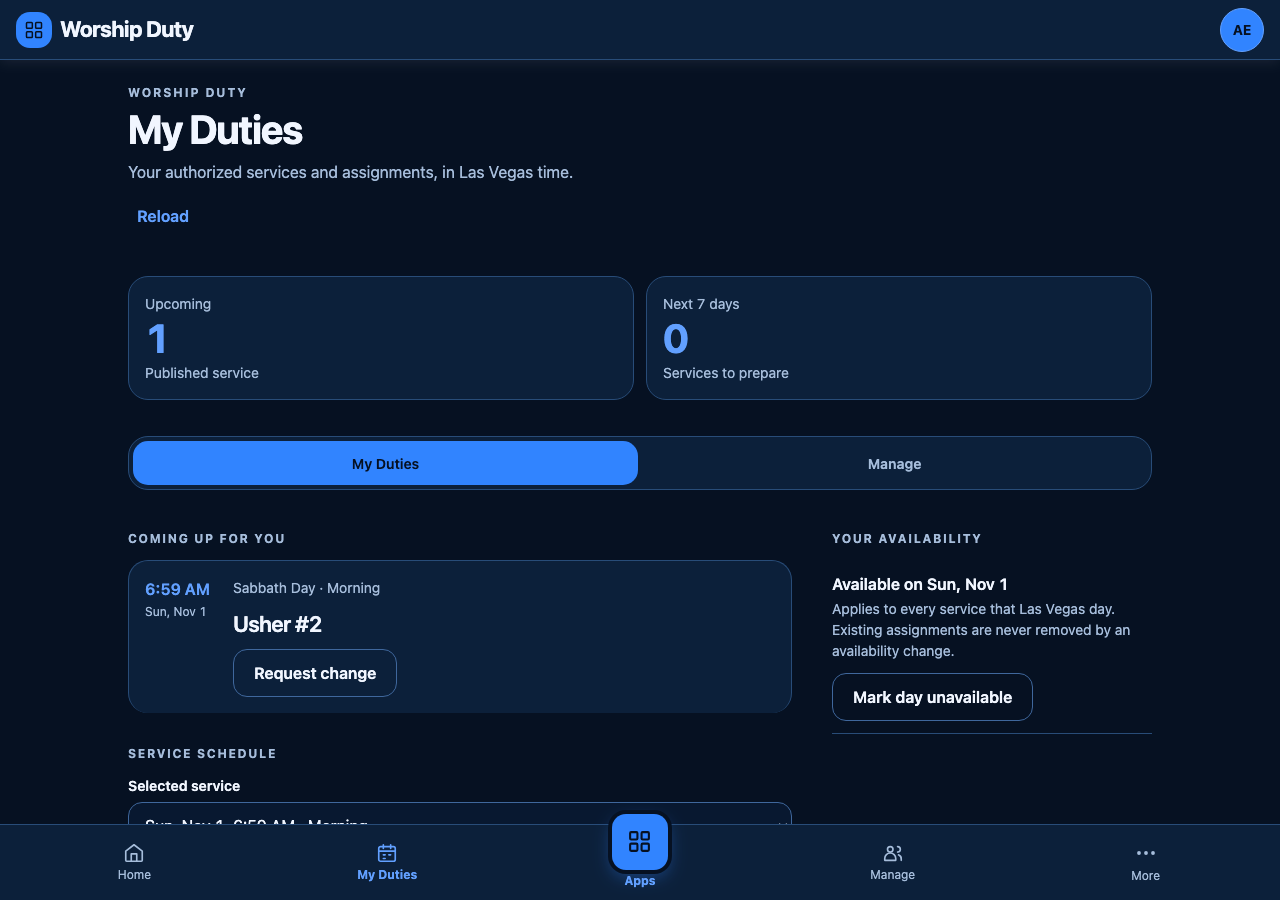
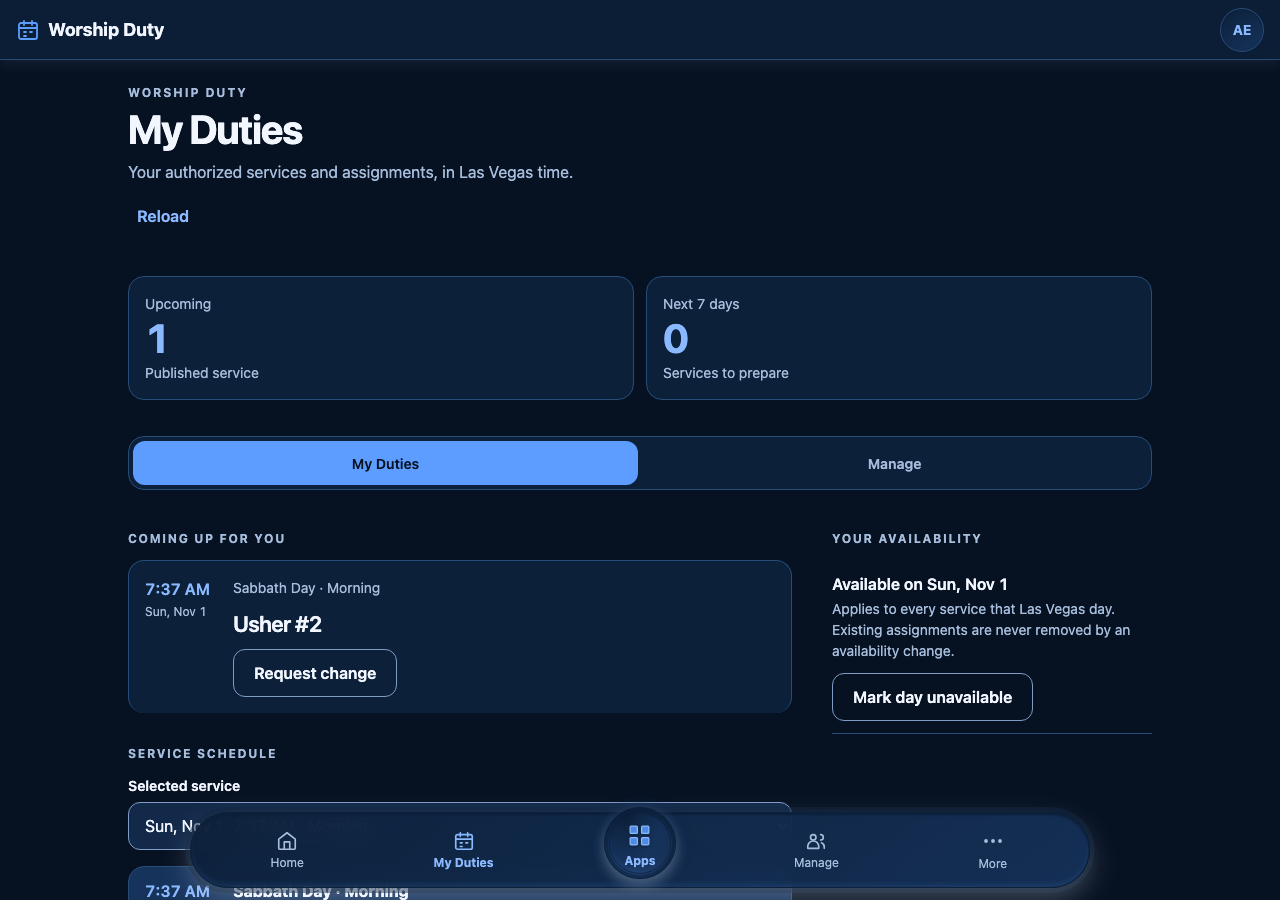
Move Worship Duty onto the shared module style registry
Worship now wears Midnight Sapphire from lib/module-styles.ts and
styles/lvz-tokens.css. The duplicate route-scoped palette and the
Worship frame-chrome overrides are removed, so the stylesheet reads
tokens only. The browser script checks the registry style and Dark
mode; screenshots and docs are refreshed.

diff --git a/components/worship-duty/worship-duty.css b/components/worship-duty/worship-duty.css
@@ -1,52 +1,5 @@
-/* Worship Duty: shared base + Theme Atlas 03 "Midnight Sapphire" (Anthony, 2026-10-24).
- * The palette is scoped to this route, like Study Rooms. A device appearance chosen by the member still wins.
- * Move this token block to the shared module-token API once it lands; the rules below read tokens only. */
-.app-frame[data-route^="/modules/worship-duty"]{
- color-scheme:dark;
- --lvz-ground:#061122;
- --lvz-surface:#0c203a;
- --lvz-sunken:#081830;
- --lvz-ink:#f1f6ff;
- --lvz-ink-quiet:#a6bddb;
- --lvz-ink-faint:#8aa3c4;
- --lvz-line:#284c78;
- --lvz-line-input:#3f679c;
- --lvz-accent:#3184ff;
- --lvz-accent-strong:#62a0ff;
- --lvz-accent-soft:#12305a;
- --lvz-on-accent:#061122;
- --lvz-focus:#8bbcff;
- --lvz-alert:#ffb184;
- --lvz-danger:#ffb3a9;
- --lvz-danger-soft:#47242c;
- --lvz-warning:#f3d58c;
- --lvz-warning-soft:#40361f;
- --lvz-success:#9ae3b2;
- --lvz-success-soft:#173a2a;
- --lvz-time-marker:#ff829a;
- --lvz-radius-sm:9px;
- --lvz-radius-md:14px;
- --lvz-radius-lg:20px;
- --lvz-shadow-sheet:0 12px 28px rgb(0 0 0 / 45%);
- --lvz-shadow-pop:0 6px 16px rgb(0 0 0 / 35%);
- background:var(--lvz-ground);
- color:var(--lvz-ink);
-}
-
-/* Frame chrome: a solid framed header and bottom bar with an illuminated, squared Apps launcher. */
-.app-frame[data-route^="/modules/worship-duty"] .app-frame-header{background:var(--lvz-surface);border-bottom:1px solid var(--lvz-line);-webkit-backdrop-filter:none;backdrop-filter:none}
-.app-frame[data-route^="/modules/worship-duty"] .app-frame-heading{font-size:var(--lvz-text-xl);letter-spacing:-.02em;color:var(--lvz-ink)}
-.app-frame[data-route^="/modules/worship-duty"] .app-frame-heading svg{box-sizing:content-box;width:20px;height:20px;padding:8px;border-radius:var(--lvz-radius-md);background:var(--lvz-accent);color:var(--lvz-on-accent)}
-.app-frame[data-route^="/modules/worship-duty"] .app-frame-avatar{background:var(--lvz-accent);border-color:var(--lvz-accent-strong);color:var(--lvz-on-accent);font-weight:var(--lvz-weight-bold);box-shadow:none}
-.app-frame[data-route^="/modules/worship-duty"] .app-frame-nav{left:0;right:0;bottom:0;max-width:none;min-height:calc(76px + env(safe-area-inset-bottom,0px));padding:0 var(--lvz-space-2) env(safe-area-inset-bottom,0px);border:0;border-top:1px solid var(--lvz-line);border-radius:0;background:var(--lvz-surface);box-shadow:none;-webkit-backdrop-filter:none;backdrop-filter:none}
-.app-frame[data-route^="/modules/worship-duty"] .app-frame-nav>a,.app-frame[data-route^="/modules/worship-duty"] .app-frame-nav>button{color:var(--lvz-ink-quiet)}
-.app-frame[data-route^="/modules/worship-duty"] .app-frame-nav [aria-current="page"]{color:var(--lvz-accent-strong)}
-.app-frame[data-route^="/modules/worship-duty"] .app-frame-nav .app-frame-apps{width:72px;height:auto;min-height:76px;margin:-22px 0 0;padding:0;justify-content:flex-start;gap:var(--lvz-space-1);border:0;border-radius:0;overflow:visible;background:none;box-shadow:none;color:var(--lvz-accent-strong)}
-.app-frame[data-route^="/modules/worship-duty"] .app-frame-apps:before,.app-frame[data-route^="/modules/worship-duty"] .app-frame-apps:after{display:none}
-.app-frame[data-route^="/modules/worship-duty"] .app-frame-apps .app-frame-orb{width:56px;height:56px;border-radius:var(--lvz-radius-md);background:var(--lvz-accent);box-shadow:0 0 0 4px var(--lvz-ground),0 6px 18px color-mix(in srgb,var(--lvz-accent) 40%,transparent)}
-.app-frame[data-route^="/modules/worship-duty"] .app-frame-orb svg{fill:none;stroke:var(--lvz-on-accent);stroke-width:2;filter:none}
-.app-frame[data-route^="/modules/worship-duty"] .app-frame-nav>:focus-visible,.app-frame[data-route^="/modules/worship-duty"] .app-frame-avatar:focus-visible{outline:3px solid var(--lvz-focus);outline-offset:3px}
-
+/* Worship Duty page styles. The Midnight Sapphire palette comes from the shared module style registry
+ * (lib/module-styles.ts, styles/lvz-tokens.css), which also styles the frame; rules here read tokens only. */
 /* Page type: spaced kicker, bold sans title. */
 .wd-main{padding-top:var(--lvz-space-6)}
 .wd-main .ui-kicker{font-size:var(--lvz-text-xs);font-weight:var(--lvz-weight-bold);letter-spacing:.16em;text-transform:uppercase;color:var(--lvz-ink-quiet)}
@@ -69,7 +22,7 @@
 
 /* Segmented section control. */
 .wd-main>.ui-tabs{gap:var(--lvz-space-1);padding:var(--lvz-space-1);border:1px solid var(--lvz-line);border-radius:var(--lvz-radius-lg);background:var(--lvz-surface)}
-.wd-main>.ui-tabs .ui-tab{flex:1 1 0;padding:0 var(--lvz-space-3);border-radius:calc(var(--lvz-radius-lg) - 5px);box-shadow:none;color:var(--lvz-ink-quiet)}
+.wd-main>.ui-tabs .ui-tab{flex:1 1 0;padding:0 var(--lvz-space-3);border-radius:var(--lvz-radius-md);box-shadow:none;color:var(--lvz-ink-quiet)}
 .wd-main>.ui-tabs .ui-tab[aria-current="page"]{background:var(--lvz-accent);color:var(--lvz-on-accent);box-shadow:none}
 .wd-main>.ui-tabs .ui-tab:focus-visible{outline:3px solid var(--lvz-focus);outline-offset:2px}
 
@@ -167,7 +120,4 @@
 @media (min-width:640px){
  .wd-grid-form{grid-template-columns:1fr 1fr}
  .wd-grid-form>.ui-button,.wd-grid-form>.ui-notice,.wd-grid-form>.wd-check{grid-column:1/-1}
-}
-@media (prefers-reduced-transparency:reduce){
- .app-frame[data-route^="/modules/worship-duty"] .app-frame-apps .app-frame-orb{box-shadow:0 0 0 4px var(--lvz-ground)}
 }

diff --git a/docs/design/worship-duty/UI-QUALITY-REPORT.md b/docs/design/worship-duty/UI-QUALITY-REPORT.md
@@ -5,8 +5,8 @@ Direction: **shared base + Theme Atlas 03 "Midnight Sapphire"**, chosen by Antho
 ## How it is built
 
 - **Shared frame:** the module registers its views with `FrameControls`; the root `AppFrame` owns the header (title, avatar) and the bottom bar. Bottom bar: Home, My Duties, center Apps, Manage (or Presider for a presider who does not schedule), More. More holds the remaining section, Setup for the owner and Reload. Home and section changes still ask before discarding an unsaved song plan.
-- **Tokens only:** the palette is a token block on `.app-frame[data-route^="/modules/worship-duty"]` in `components/worship-duty/worship-duty.css`, the same pattern Study Rooms uses. Every rule below it reads `var(--lvz-…)`. A device appearance chosen by the member still overrides it. When the shared module-token API from the design session lands, the block moves there unchanged.
-- **Look:** deep blue ground, framed dark panels with fine sapphire rules, 20px radius, bright blue primary actions, spaced uppercase kickers, bold sans titles, a segmented section control, and a squared illuminated Apps launcher.
+- **Shared style registry:** Worship is registered in `lib/module-styles.ts` (`worship-duty`, Midnight Sapphire, dark by design). The frame sets `data-lvz-module="worship-duty"` and the palette comes from `styles/lvz-tokens.css`, which also styles the header and bottom bar. `components/worship-duty/worship-duty.css` holds page layout only and reads `var(--lvz-…)` tokens: no colors, fonts or radii of its own. Because the style is dark by design, Light, Dark and System all show the same palette.
+- **Look:** deep blue ground, framed dark panels with fine sapphire rules, bright blue primary actions, spaced uppercase kickers, bold sans titles and a segmented section control, inside the shared header and bottom bar.
 - **Screens:** My Duties has Upcoming / Next 7 days tiles and one card per duty. Manage has a Sunday-first month grid (only days with services can be chosen; a dot marks them), that day's services, the staged batch review and single-service editors. Setup has Services, People and Songs tabs. Swiping on the content switches tabs; the tab buttons stay the main control.
 - **No church imagery, emoji or invented content.** Empty states are neutral.
 
@@ -20,15 +20,15 @@ Taken by `scripts/test-worship-browser.mjs` on October 24 against the native loc
 | Manage, month calendar | [manage-phone.png](manage-phone.png) | [manage-desktop.png](manage-desktop.png) |
 | Presider song plan | [presider-phone.png](presider-phone.png) | [presider-desktop.png](presider-desktop.png) |
 | Setup, Services tab | [setup-phone.png](setup-phone.png) | [setup-desktop.png](setup-desktop.png) |
+| My Duties, device in Dark mode | [my-duties-dark-phone.png](my-duties-dark-phone.png) | [my-duties-dark-desktop.png](my-duties-dark-desktop.png) |
 
-Automated checks in the same run: no sideways scrolling at 320, 390, 430, 768 and 1280px on all three setup tabs and the planner; the frame shows Home, My Duties, Apps, Manage and More; the route resolves `--lvz-accent` to `#3184ff`.
+Automated checks in the same run: no sideways scrolling at 320, 390, 430, 768 and 1280px on all three setup tabs and the planner; the frame shows Home, My Duties, Apps, Manage and More with the title Worship Duty; the frame carries `data-lvz-module="worship-duty"` with the Sapphire ground; with the device in Dark mode the page resolves `data-lvz-scheme="dark"` and keeps the same palette. `tests/appearance.test.ts` (shared contrast check) passes.
 
 ## Not done
 
 - No automated accessibility scan, screen-reader pass, physical-phone check or first-time-user test.
 - Contrast was reviewed by eye and against the Atlas tokens, not measured for every state.
 
-## Requests for the shared frame (owned by the design session)
+## Shared frame requests
 
-- `routeDetails` in `components/app-frame.tsx` has no Worship entry, so the header icon is the generic Apps grid. Suggested: `if(path.startsWith('/modules/worship-duty'))return{title:'Worship Duty',icon:'calendar'};`.
-- Move the Worship token block into the shared module-token contract when it exists.
+None open. The header icon and the palette now come from the shared registry (main `8606dad`). Worship screens were not added to the shared design sweep (`tests/design-sweep/sweep.spec.ts`), because Worship pages need the server-side member check; the native local browser run above covers them in Light and Dark instead.

diff --git a/docs/worship-duty/LAUNCH.md b/docs/worship-duty/LAUNCH.md
@@ -23,7 +23,7 @@ Services begin as drafts. Editing and publication use exact service versions. Ca
 
 Monthly list/calendar planning stages at most 40 cells for explicit batch review. The database authorizes every cell before changing records, validates the final assignment combination and rolls the whole transaction back on a conflict. Legal swaps clear only changed cells before applying final candidates. Song details that have been used cannot be rewritten; archiving preserves the catalog entry and plans.
 
-The interface uses the shared app frame and the module-scoped Theme Atlas "Midnight Sapphire" style. No new design provider, member database or login is introduced. Las Vegas times are independent of the device timezone; skipped/repeated daylight-saving inputs are rejected.
+The interface uses the shared app frame and the Theme Atlas "Midnight Sapphire" style from the shared module style registry. No new design provider, member database or login is introduced. Las Vegas times are independent of the device timezone; skipped/repeated daylight-saving inputs are rejected.
 
 ## Verification commands
 
@@ -43,6 +43,14 @@ The stack serves the existing `.next` build, so compile first with `npx next bui
 The local harness creates the verified fictional owner through real Auth and enrollment before installing ordinary fixture administrators. Its mail sink accepts only example.invalid. Ephemeral credentials, session tokens, outbox and database files stay outside Git. Test-only migrations are not a hosted deployment.
 
 ## Verification observed so far
+
+October 24, 2026, second pass after merging main through `8606dad` (Next 16.4.3, shared style registry), focused checks only:
+
+- `npm run build` (typecheck + Next build): passed, no security advisory.
+- Node tests: 76 of 76 (the eight files below plus `appearance`).
+- Native stack: 9 of 9 integration checks and 47 of 47 browser checks, now including the registry style (`data-lvz-module="worship-duty"`, Sapphire ground, title) and Dark mode (device dark, `data-lvz-scheme="dark"`, same palette, duty card visible).
+
+First pass (main through `9cf2531`):
 
 October 24, 2026, on the merged branch (main through `9cf2531`), focused checks only; no full suite was run:
 
@@ -79,3 +87,4 @@ Retain the previous READY Vercel production deployment. Disable `LVZ_WORSHIP_DUT
 - Phase 2 redesign (same branch): the module screens now follow the locked Day Sheet contract with shared tokens, header, underlined swipe tabs, time-first hairline lists and a desktop side column. Accessible names used by the native browser script are unchanged; permissions, SQL and API contracts are untouched. Evidence and gaps: docs/design/worship-duty/UI-QUALITY-REPORT.md.
 - Fresh-start docs alignment (same branch, docs only): the Worship docs now follow the October 16 boundary in AGENTS.md. References to a separate duty application, its hosting and its spreadsheet, the migration framing and the handover gates that depended on another system were removed; schedules start empty from records configured in this app. Duty rules, permissions, migration status and verification history are unchanged. The fifth repository migration is now listed; the hosted ledger still has no Worship entries.
 - Completion (October 24, PR #48): merged main through `9cf2531` without conflicts. Worship now registers its views with the shared app frame and uses route-scoped Midnight Sapphire tokens; My Duties gained summary tiles and duty cards, the planner a Sunday-first month grid, and owner setup Services/People/Songs tabs. The five migrations were renumbered to `20261024160000` to `20261024160400` so they sort after the latest applied migration, and their comments no longer name another application. The setup database suite now runs on every current migration. The local seed loader swaps the fixture file's hosted-Auth guard (added October 16, which real local Auth trips) for a stricter disposable-cluster check. The browser script now covers the calendar planner and the song plan order, confirm and copy steps. Hosted read-only check not run: connector unauthorized.
+- Registry adoption (October 24, PR #48): merged main through `8606dad`. The route-scoped token block and the Worship frame-chrome overrides were removed; Worship now wears Midnight Sapphire from `lib/module-styles.ts` and `styles/lvz-tokens.css`, and its stylesheet reads tokens only. The browser script checks the registry style and Dark mode.

diff --git a/docs/worship-duty/WORK-HANDOFF.md b/docs/worship-duty/WORK-HANDOFF.md
@@ -1,6 +1,6 @@
 # Work handoff: Worship Duty
 
-**Status, October 24, 2026:** the module is built and verified locally on draft [PR #48](https://github.com/lovelaceaml-hub/lvzion-official/pull/48) (branch `claude/refactor-worship-duty-3b2f97`, merged with main through `9cf2531`). It is not released. What Anthony must approve, in order, is in [README.md](README.md#ready-for-release-what-anthony-must-approve).
+**Status, October 24, 2026:** the module is built and verified locally on draft [PR #48](https://github.com/lovelaceaml-hub/lvzion-official/pull/48) (branch `claude/refactor-worship-duty-3b2f97`, merged with main through `8606dad`). It is not released. What Anthony must approve, in order, is in [README.md](README.md#ready-for-release-what-anthony-must-approve).
 
 ## Sources
 
@@ -14,7 +14,7 @@
 - `/modules/worship-duty` and `/api/worship-duty`: My Duties, Presider and Manage behind `requireMember()`, the module grant and the production flag.
 - `/modules/worship-duty/setup` and `/api/worship-duty/setup`: owner-only Services, People and Songs setup. The browser never supplies actor or role.
 - Persistent monthly planner (list and month calendar) with reviewed, atomic, versioned batches. Single-service editing, change requests, availability, song plans.
-- Shared app frame and the module-scoped Midnight Sapphire style.
+- Shared app frame and Midnight Sapphire from the shared module style registry (`lib/module-styles.ts`).
 - Five unapplied migrations, renumbered `20261024160000` to `20261024160400`.
 - Tests: Worship unit and PGlite database suites, the native local stack (`tests/integration/start-worship-stack.mjs`, `scripts/test-worship-integration.mjs`, `scripts/test-worship-browser.mjs`).
 
@@ -22,7 +22,7 @@
 
 1. **Hosted read-only check** (queries in [MIGRATION-STATUS.md](MIGRATION-STATUS.md)). Not run on October 24 because the Supabase connector needed authorization. An October 14 Codex session ended while applying the first migration; confirm nothing partial exists before applying.
 2. **Release steps** 1 to 6 in the README, each with Anthony's approval.
-3. **Shared frame requests** for the design session: a Worship entry in `routeDetails` (header icon) and moving the token block to the shared module-token contract. See [UI-QUALITY-REPORT.md](../design/worship-duty/UI-QUALITY-REPORT.md).
+3. No shared frame requests are open; see [UI-QUALITY-REPORT.md](../design/worship-duty/UI-QUALITY-REPORT.md).
 4. **Not built and not approved:** automatic fill, recurring service generation, song history analytics, push, email or calendar delivery, configurable extra duty pairs.
 
 ## Constraints

diff --git a/docs/worship-duty/README.md b/docs/worship-duty/README.md
@@ -12,7 +12,7 @@ Under the October 16, 2026 fresh-start boundary in the root `AGENTS.md`, the mod
 - **Presider:** the song plan for an exact service (preparation songs in order, Glory, Thanks and Choir where they apply), save, confirm, and a copy-only text preview. Nothing is sent anywhere.
 - **Manage:** a monthly planner (list or month calendar) that stages up to 40 changes for one reviewed, all-or-nothing save; single-service editing; change requests waiting for a decision.
 - **Setup (owner only):** Services (create, edit, publish, cancel), People (department participation, module access, qualifications, scheduling and song-editor grants, per-service availability) and Songs (approved catalog).
-- **Look:** the shared app frame (header, bottom bar with center Apps) and the Theme Atlas "Midnight Sapphire" style, scoped to this module. Screenshots and notes: [UI-QUALITY-REPORT.md](../design/worship-duty/UI-QUALITY-REPORT.md).
+- **Look:** the shared app frame (header, bottom bar with center Apps) and the Theme Atlas "Midnight Sapphire" style from the shared module style registry. It is dark by design, so it looks the same in Light, Dark and System. Screenshots and notes: [UI-QUALITY-REPORT.md](../design/worship-duty/UI-QUALITY-REPORT.md).
 
 ## Ready for release: what Anthony must approve
 
